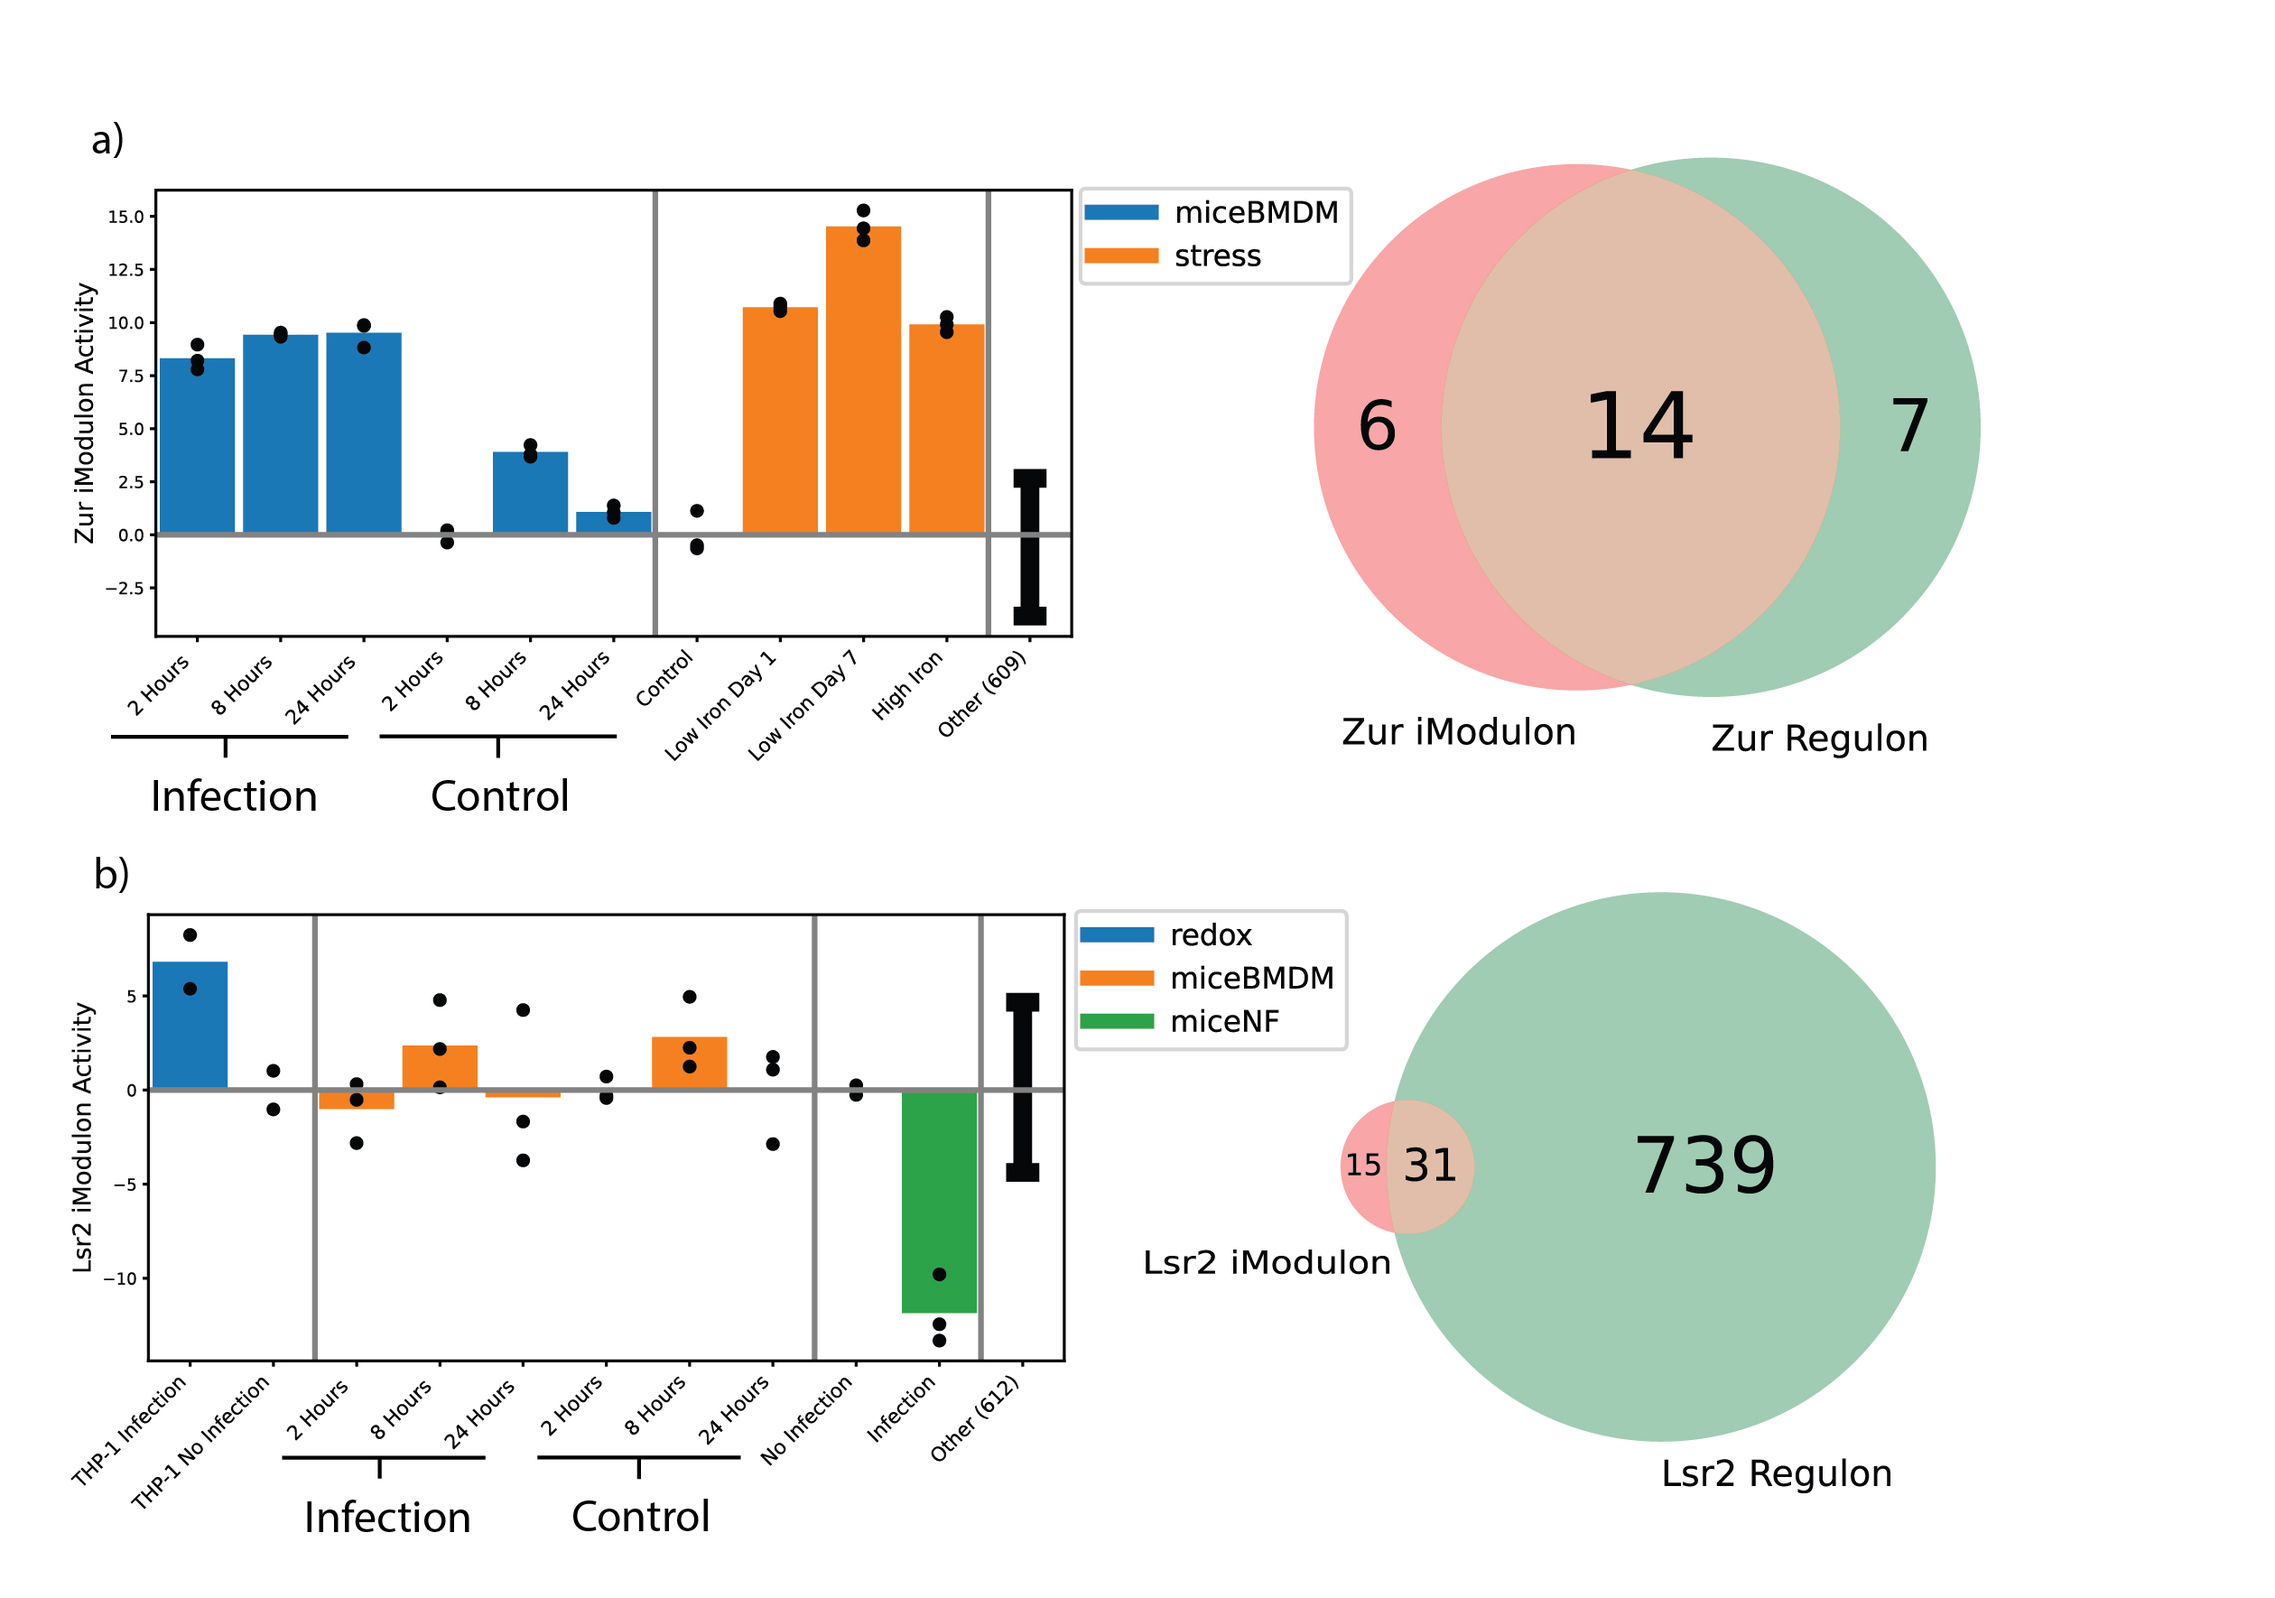
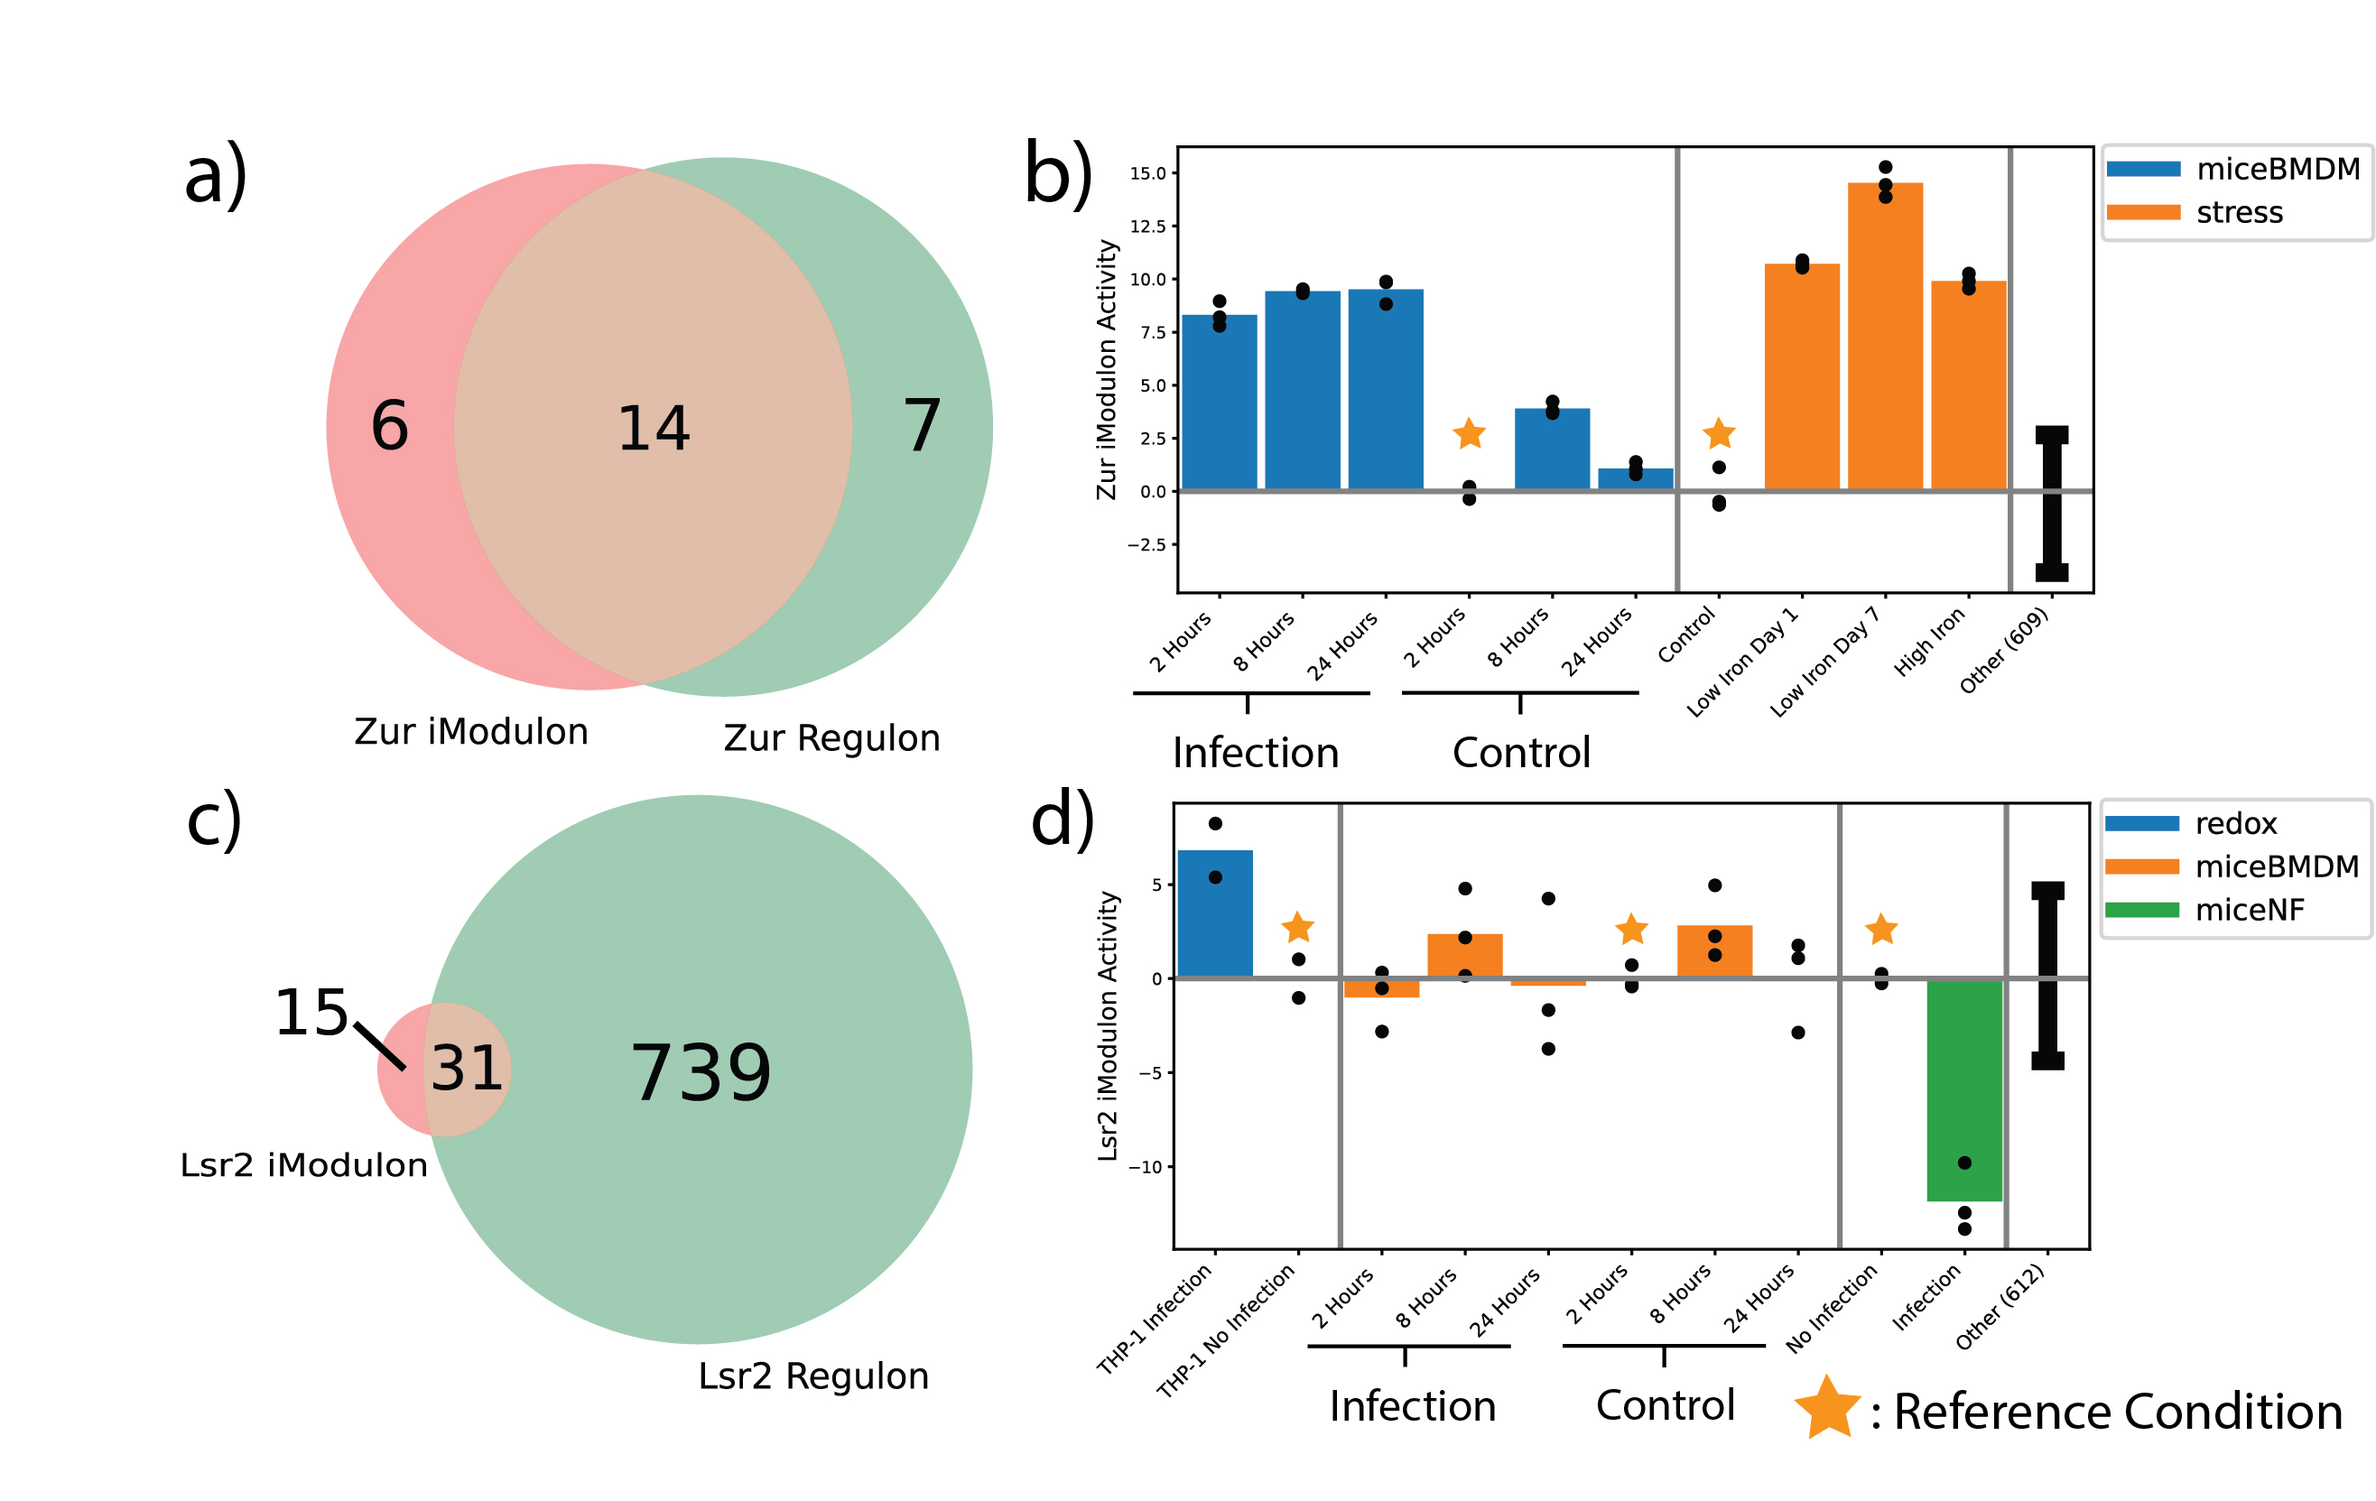
Update figures based on paper comments

diff --git a/README.md b/README.md
@@ -2,7 +2,7 @@
 
 Data repository for applying independent component analysis decomposition on *M. tuberculosis* transcritomic data, as described in, 
 
-> *Reo Yoo*, Anand Sastry, Kevin Rychel, Saugat Poudel, Tahani Al-bulushi, Annie Yuan, Siddharth Chauhan, Cameron Lamoureux, BO. Palsson 
+> **Reo Yoo**, Anand Sastry, Kevin Rychel, Saugat Poudel, Tahani Al-bulushi, Annie Yuan, Siddharth Chauhan, Cameron Lamoureux, BO. Palsson 
 
 ### Installation
 
